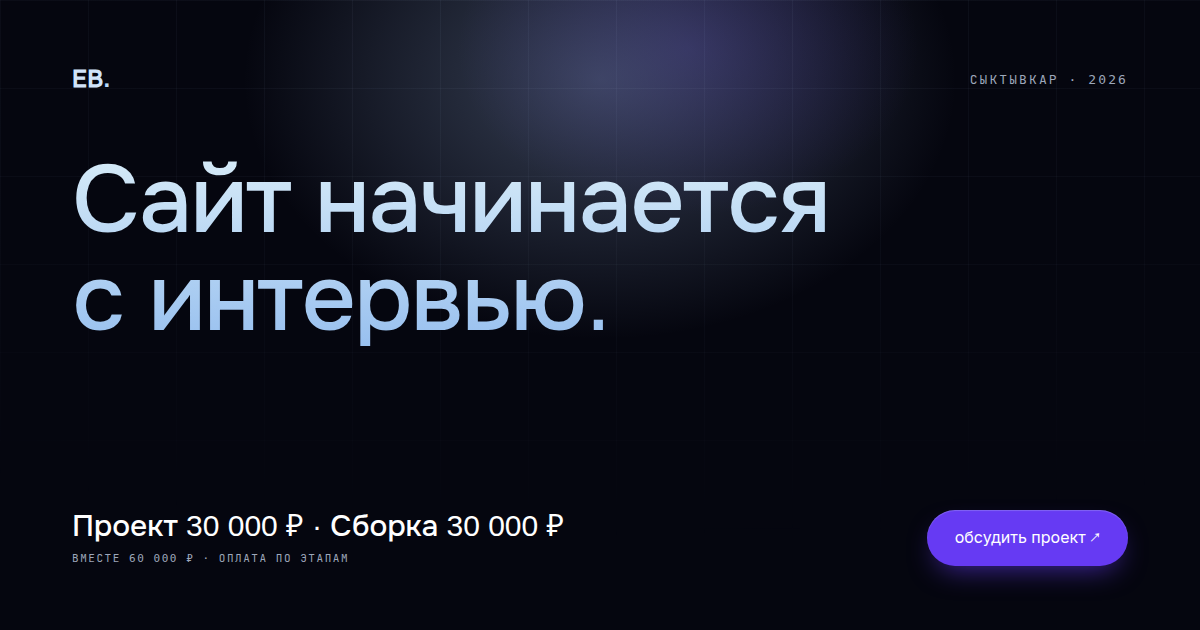
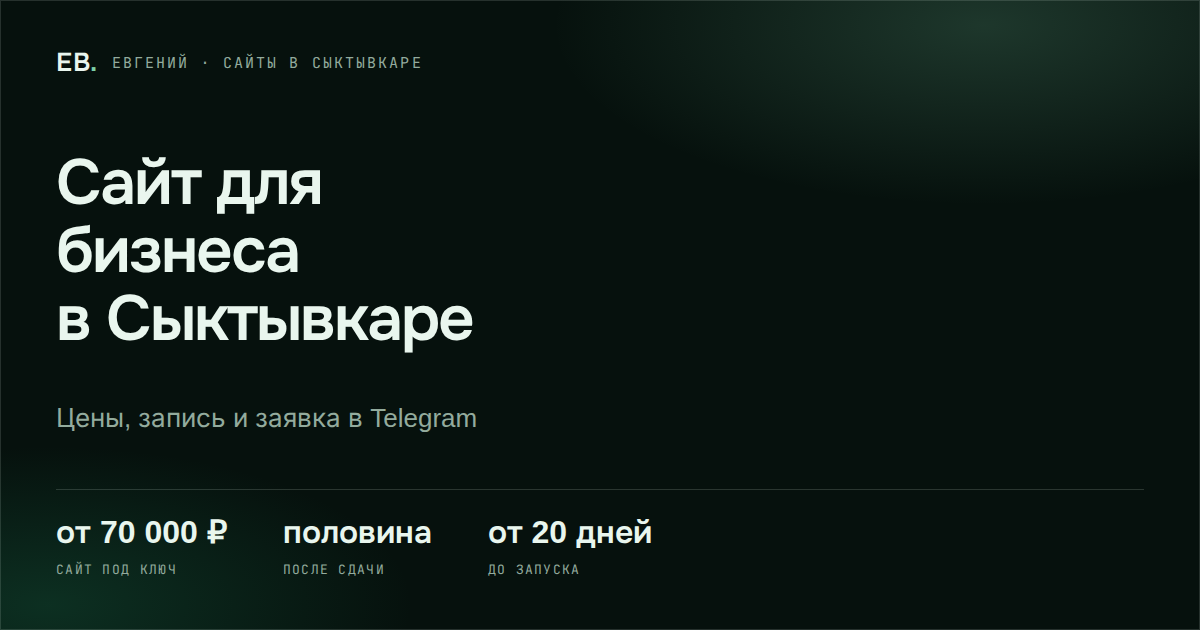
п.1 и п.12: новая карточка шаринга, CTA в модалках, липкая полоса на телефоне

diff --git a/index.html b/index.html
@@ -763,9 +763,31 @@
   .promo-text{font-size:14.5px;line-height:1.55;color:var(--fog);max-width:60ch}
   .promo-actions{display:flex;flex-direction:column;gap:10px;align-items:stretch}
   @media(max-width:720px){.promo{grid-template-columns:1fr}.promo-actions{flex-direction:row;flex-wrap:wrap}}
+
+  /* CTA внутри модалок услуги */
+  .svc-modal{padding-bottom:0}
+  .svc-cta{position:sticky;bottom:0;display:flex;flex-wrap:wrap;gap:10px;
+    margin-top:22px;padding:16px 0 24px;border-top:1px solid var(--line);
+    background:rgb(6,17,13);box-shadow:0 -18px 20px -10px rgb(6,17,13)}
+  @media(max-width:720px){.svc-cta .btn{flex:1 1 100%}}
+  /* липкая полоса на телефоне */
+  .cta-bar{display:none}
+  @media(max-width:900px){
+    .cta-bar{display:flex;gap:10px;position:fixed;left:0;right:0;bottom:0;z-index:40;
+      padding:10px 14px calc(10px + env(safe-area-inset-bottom));
+      background:rgba(6,17,13,.92);-webkit-backdrop-filter:blur(14px);backdrop-filter:blur(14px);
+      box-shadow:inset 0 1px 0 var(--line)}
+    .cta-bar .btn{flex:1;height:46px;font-size:14px}
+    body{padding-bottom:76px}
+  }
 </style>
 <body>
 <script>document.documentElement.classList.add('js')</script>
+<div class="cta-bar" role="region" aria-label="Быстрое действие">
+  <a class="btn btn-primary" href="https://t.me/evglat11?text=%D0%97%D0%B4%D1%80%D0%B0%D0%B2%D1%81%D1%82%D0%B2%D1%83%D0%B9%D1%82%D0%B5%21%20%D0%92%D0%BE%D1%82%20%D1%81%D1%81%D1%8B%D0%BB%D0%BA%D0%B0%20%D0%BD%D0%B0%20%D0%BC%D0%BE%D0%B9%20%D1%81%D0%B0%D0%B9%D1%82%20%28%D0%B3%D1%80%D1%83%D0%BF%D0%BF%D1%83%29%3A%20">прислать ссылку</a>
+  <a class="btn btn-ghost" href="mailto:me@zheksai11.ru">почта</a>
+</div>
+
 <div class="progress" aria-hidden="true"></div>
 <a class="skip" href="#main">Перейти к содержанию</a>
 
@@ -1322,6 +1344,10 @@
       <p class="svc-label">цена и срок</p>
       <p>От 70 000 ₽: половина на старте, половина после сдачи. Скидка 15 000 ₽ за отзыв и право показать работу — спросите, действует ли. Срок от 20 дней.</p>
     </div>
+    <div class="svc-cta">
+      <a class="btn btn-primary" href="https://t.me/evglat11?text=%D0%97%D0%B4%D1%80%D0%B0%D0%B2%D1%81%D1%82%D0%B2%D1%83%D0%B9%D1%82%D0%B5%21%20%D0%92%D0%BE%D1%82%20%D1%81%D1%81%D1%8B%D0%BB%D0%BA%D0%B0%20%D0%BD%D0%B0%20%D0%BC%D0%BE%D0%B9%20%D1%81%D0%B0%D0%B9%D1%82%20%28%D0%B3%D1%80%D1%83%D0%BF%D0%BF%D1%83%29%3A%20">прислать ссылку на разбор <span class="arr">↗</span></a>
+      <a class="btn btn-ghost" href="https://t.me/evglat11">написать в telegram</a>
+    </div>
   </dialog>
 
   <dialog class="pmodal svc-modal" id="svc-02" tabindex="-1" aria-labelledby="svc-02-title">
@@ -1346,6 +1372,10 @@
     <div class="svc-block">
       <p class="svc-label">цена и срок</p>
       <p>30 000 ₽, скидка 5 000 ₽ за отзыв — спросите, действует ли. Срок 1,5–2 недели.</p>
+    </div>
+    <div class="svc-cta">
+      <a class="btn btn-primary" href="https://t.me/evglat11?text=%D0%97%D0%B4%D1%80%D0%B0%D0%B2%D1%81%D1%82%D0%B2%D1%83%D0%B9%D1%82%D0%B5%21%20%D0%92%D0%BE%D1%82%20%D1%81%D1%81%D1%8B%D0%BB%D0%BA%D0%B0%20%D0%BD%D0%B0%20%D0%BC%D0%BE%D0%B9%20%D1%81%D0%B0%D0%B9%D1%82%20%28%D0%B3%D1%80%D1%83%D0%BF%D0%BF%D1%83%29%3A%20">прислать ссылку на разбор <span class="arr">↗</span></a>
+      <a class="btn btn-ghost" href="https://t.me/evglat11">написать в telegram</a>
     </div>
   </dialog>
 
@@ -1373,6 +1403,10 @@
       <p class="svc-label">цена и срок</p>
       <p>10 изображений — 5 000 ₽, ролик 30 секунд — 3 000 ₽. Сюжеты согласуем на интервью, работа идёт в общем сроке проекта, оформляется допсоглашением.</p>
     </div>
+    <div class="svc-cta">
+      <a class="btn btn-primary" href="https://t.me/evglat11?text=%D0%97%D0%B4%D1%80%D0%B0%D0%B2%D1%81%D1%82%D0%B2%D1%83%D0%B9%D1%82%D0%B5%21%20%D0%92%D0%BE%D1%82%20%D1%81%D1%81%D1%8B%D0%BB%D0%BA%D0%B0%20%D0%BD%D0%B0%20%D0%BC%D0%BE%D0%B9%20%D1%81%D0%B0%D0%B9%D1%82%20%28%D0%B3%D1%80%D1%83%D0%BF%D0%BF%D1%83%29%3A%20">прислать ссылку на разбор <span class="arr">↗</span></a>
+      <a class="btn btn-ghost" href="https://t.me/evglat11">написать в telegram</a>
+    </div>
   </dialog>
 
   <dialog class="pmodal svc-modal" id="svc-04" tabindex="-1" aria-labelledby="svc-04-title">
@@ -1396,6 +1430,10 @@
     <div class="svc-block">
       <p class="svc-label">цена и срок</p>
       <p>1 000 ₽ в час, минимум час, оплата по факту, оценка — до работы.</p>
+    </div>
+    <div class="svc-cta">
+      <a class="btn btn-primary" href="https://t.me/evglat11?text=%D0%97%D0%B4%D1%80%D0%B0%D0%B2%D1%81%D1%82%D0%B2%D1%83%D0%B9%D1%82%D0%B5%21%20%D0%92%D0%BE%D1%82%20%D1%81%D1%81%D1%8B%D0%BB%D0%BA%D0%B0%20%D0%BD%D0%B0%20%D0%BC%D0%BE%D0%B9%20%D1%81%D0%B0%D0%B9%D1%82%20%28%D0%B3%D1%80%D1%83%D0%BF%D0%BF%D1%83%29%3A%20">прислать ссылку на разбор <span class="arr">↗</span></a>
+      <a class="btn btn-ghost" href="https://t.me/evglat11">написать в telegram</a>
     </div>
   </dialog>
 </main>
